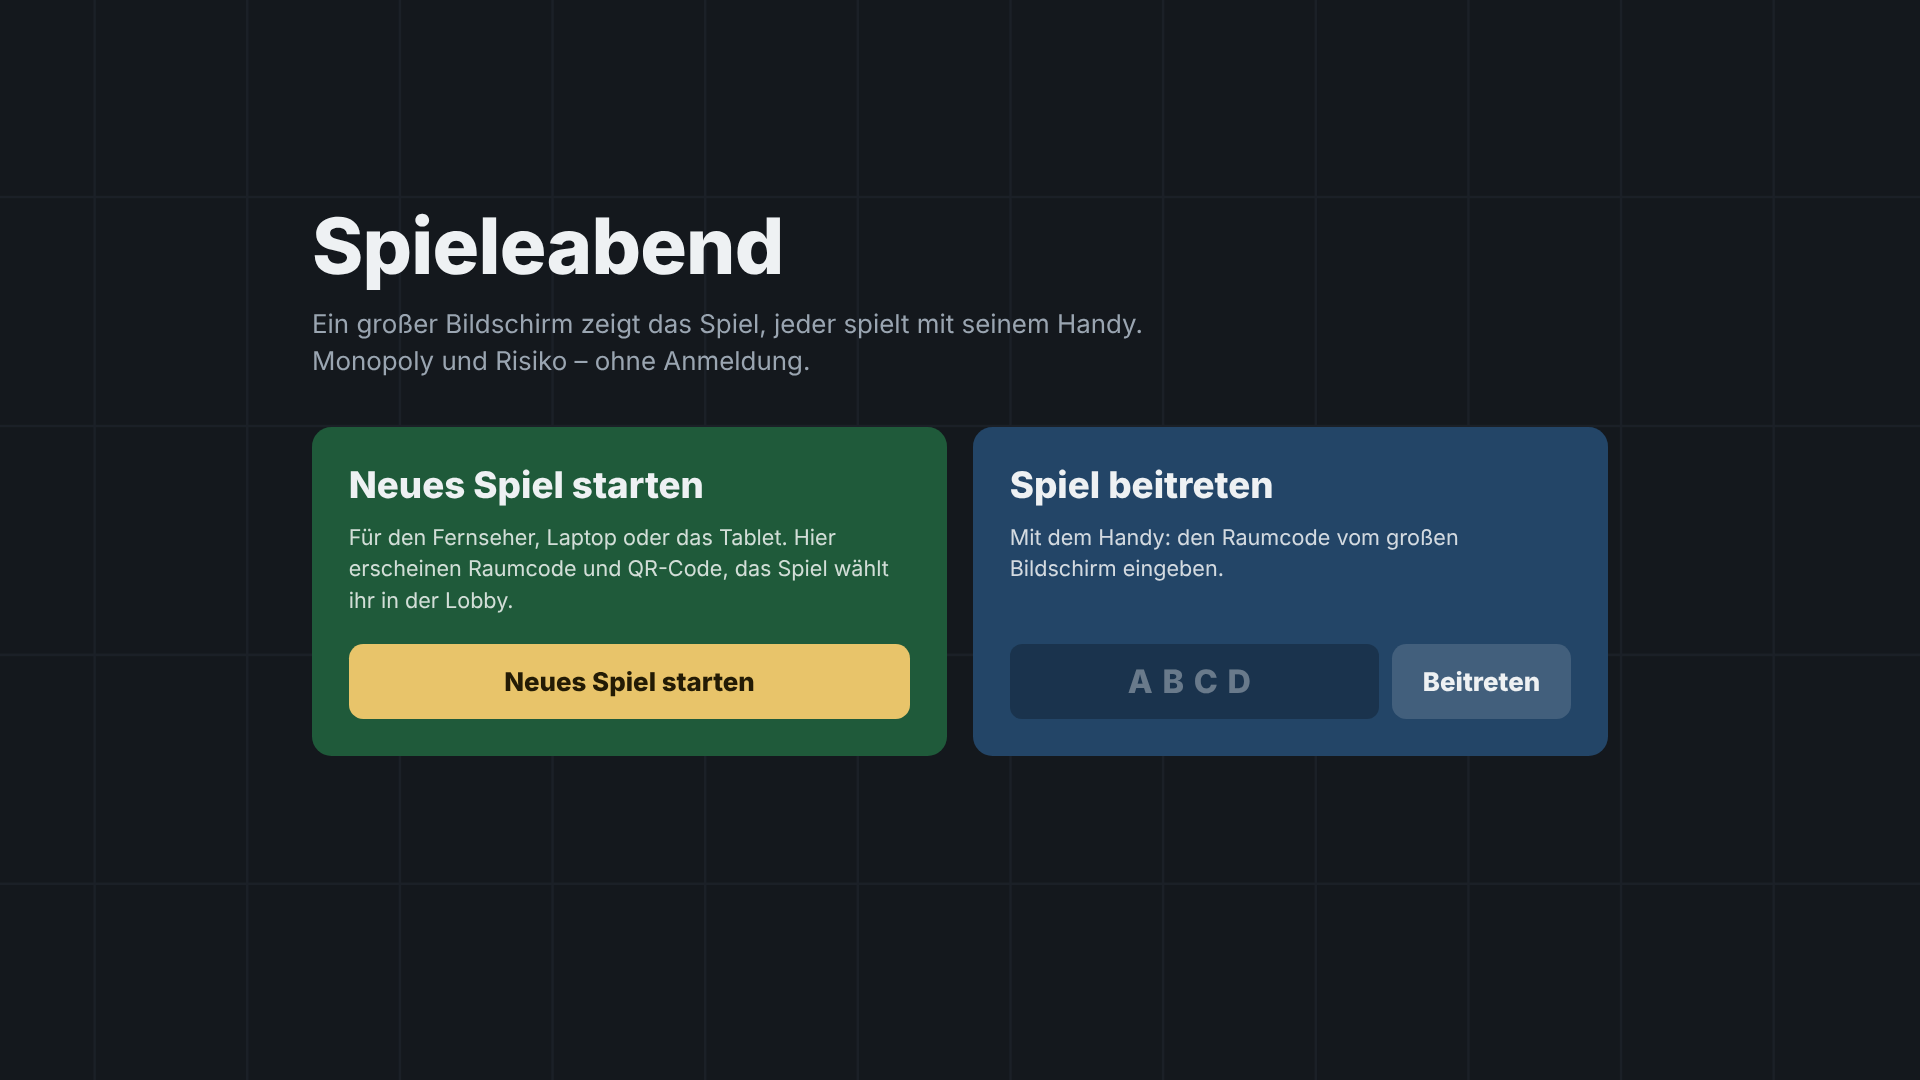
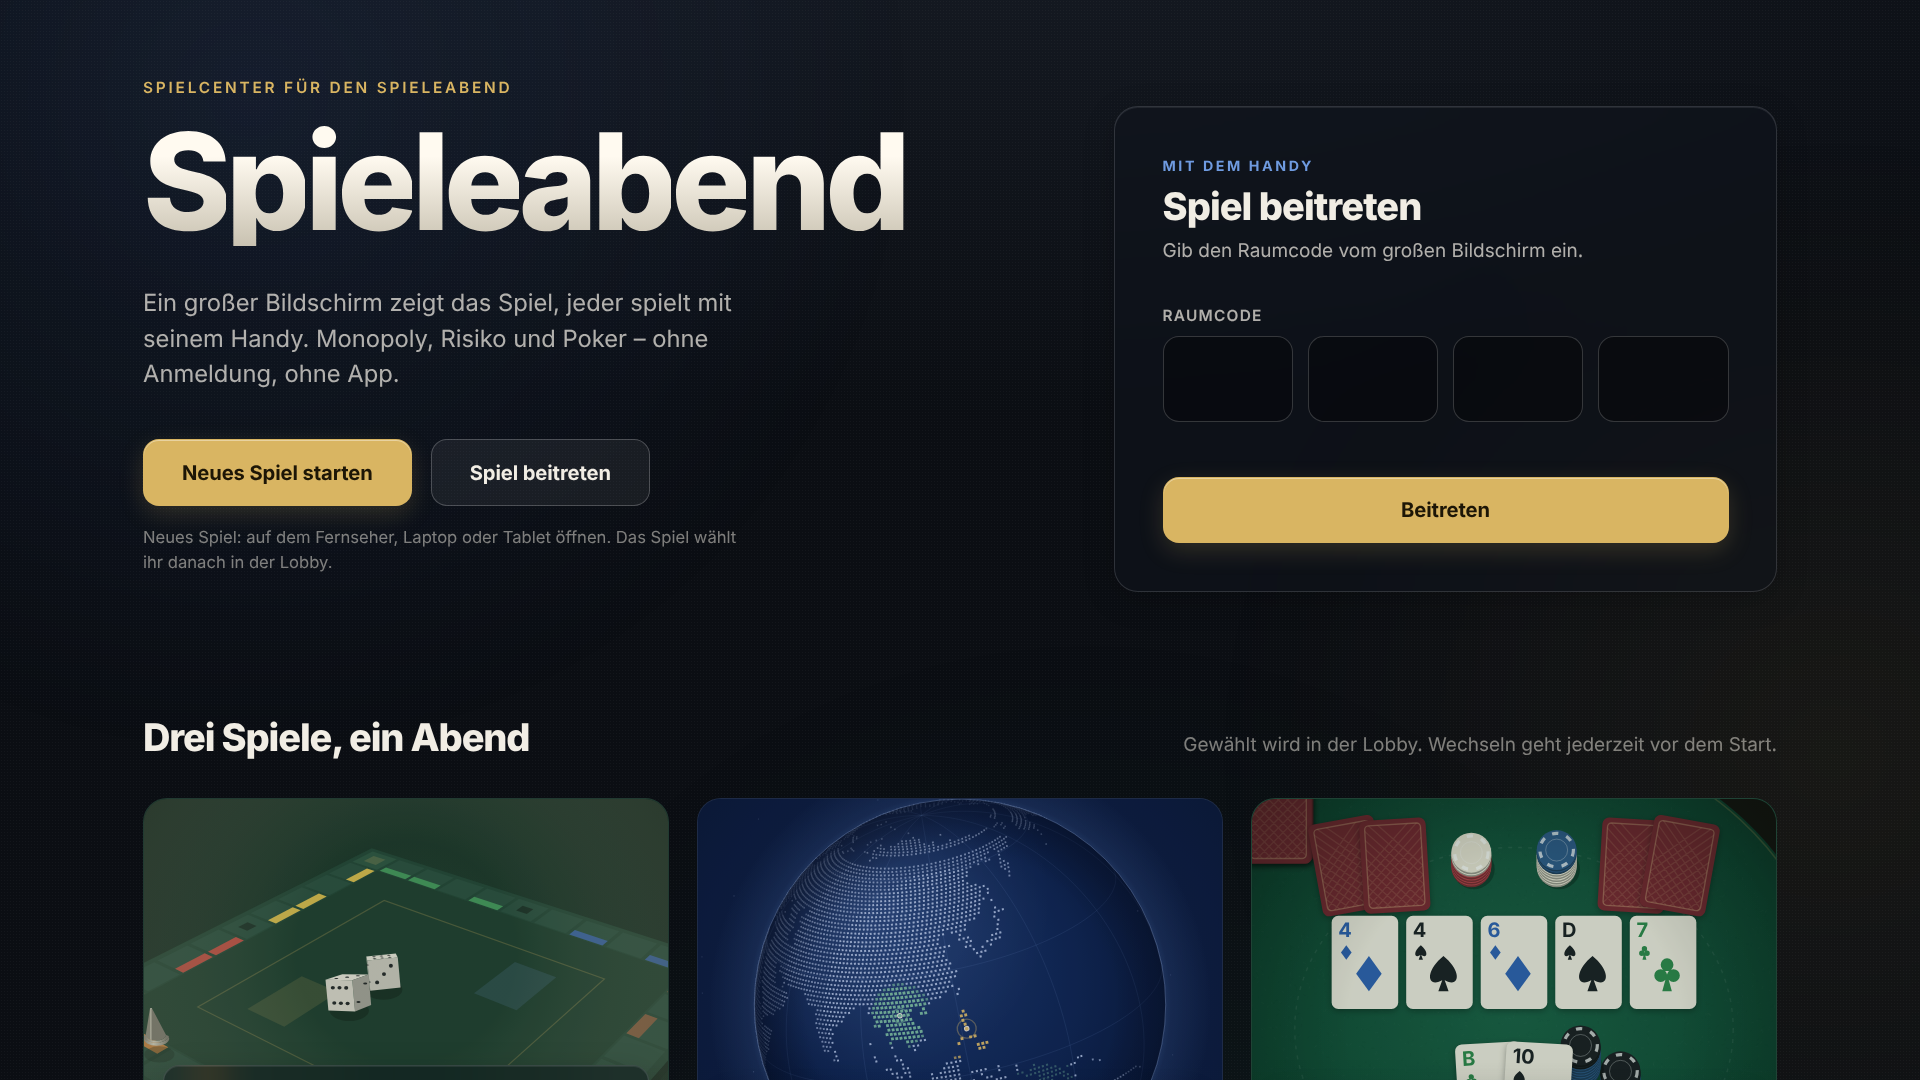
Startseite: Browser-Tests, Bildschirmfotos und Doku
Claude-Session: https://claude.ai/code/session_01TwzLN2jbX8mMbGcqsTMN3N

diff --git a/test/start.e2e.test.js b/test/start.e2e.test.js
@@ -61,3 +61,69 @@ test('Startseite: Raum anlegen, Beitritt per Code, Meldung bei unbekanntem Code'
     await srv.close();
   }
 });
+
+test('Startseite: Raumcode-Felder, Größen, Rückfall ohne Punktdatei', { skip: browserSkip(), timeout: 60000 }, async () => {
+  const srv = await startServer();
+  const browser = await launch();
+  const errors = [];
+  try {
+    const phone = await openPage(browser, `${srv.url}/`, { viewport: { width: 390, height: 844 }, label: 'felder', errors, isMobile: true });
+    // Tippen springt weiter, Kleinbuchstaben werden groß, Ziffern ignoriert
+    await phone.click('#st-code-1');
+    await phone.keyboard.type('a1b');
+    assert.equal(await codeValue(phone), 'AB');
+    assert.equal(await phone.evaluate(() => document.activeElement.id), 'st-code-3');
+    // Rücktaste im leeren Feld springt zurück und löscht dort
+    await phone.keyboard.press('Backspace');
+    assert.equal(await phone.evaluate(() => document.activeElement.id), 'st-code-2');
+    assert.equal(await codeValue(phone), 'A');
+    // Einfügen aus der Zwischenablage verteilt auf alle Felder
+    const paste = (text) => phone.evaluate((t) => {
+      const dt = new DataTransfer(); dt.setData('text', t);
+      document.activeElement.dispatchEvent(new ClipboardEvent('paste', { clipboardData: dt, bubbles: true, cancelable: true }));
+    }, text);
+    await paste(' wx-yz ');
+    assert.equal(await codeValue(phone), 'WXYZ');
+    assert.equal(await phone.evaluate(() => document.activeElement.id), 'st-code-4');
+    await paste('123');
+    assert.match(await phone.textContent('#st-code-msg'), /nur aus Buchstaben/);
+    // Unvollständig: Fehler am Feld
+    await phone.click('#st-code-4');
+    await phone.keyboard.press('Delete');
+    await phone.click('#st-join');
+    assert.match(await phone.textContent('#st-code-msg'), /4 Buchstaben/);
+    assert.equal(await phone.getAttribute('#st-code', 'aria-invalid'), 'true');
+    assert.equal(await phone.evaluate(() => document.activeElement.id), 'st-code-4');
+    assert.equal(await phone.getAttribute('#st-code-1', 'inputmode'), 'text');
+    assert.equal(await phone.getAttribute('#st-code-1', 'autocapitalize'), 'characters');
+
+    // Alle Größen: kein horizontales Scrollen, Szenen gezeichnet, Ziele am Handy groß genug
+    for (const [width, height] of [[390, 844], [1024, 768], [1366, 768], [1920, 1080]]) {
+      const page = await openPage(browser, `${srv.url}/`, { viewport: { width, height }, label: `${width}`, errors, isMobile: width < 500 });
+      await page.waitForFunction(() => document.querySelectorAll('.st-game.st-has-canvas').length === 3);
+      assert.equal(await noHorizontalScroll(page), true, `${width}x${height} ohne horizontales Scrollen`);
+      if (width < 500) {
+        const small = await page.evaluate(() => [...document.querySelectorAll('button, a, input')].filter((e) => { const r = e.getBoundingClientRect(); return r.height < 44 || r.width < 44; }).map((e) => e.id));
+        assert.deepEqual(small, [], 'Zielgröße mindestens 44 px');
+      }
+      await page.context().close();
+    }
+
+    // Punktdatei fehlt, reduzierte Bewegung: Seite lädt ohne Fehler mit Standbildern
+    const ctx = await browser.newContext({ viewport: { width: 1366, height: 768 }, reducedMotion: 'reduce' });
+    const still = await ctx.newPage();
+    const own = [];
+    still.on('pageerror', (err) => own.push(err.message));
+    await still.route('**/globe-points.json', (route) => route.fulfill({ status: 404, body: '' }));
+    await still.goto(`${srv.url}/`);
+    await still.waitForFunction(() => document.querySelectorAll('.st-game.st-has-canvas').length === 2);
+    assert.equal(await still.evaluate(() => window.stHintergrund.running), false, 'keine Bewegung bei reduzierter Bewegung');
+    assert.equal(await still.evaluate(() => document.querySelector('.st-game[data-game="risiko"]').classList.contains('st-has-canvas')), false);
+    assert.deepEqual(own, []);
+    await ctx.close();
+    assert.deepEqual(errors, [], 'keine Konsolenfehler');
+  } finally {
+    await browser.close();
+    await srv.close();
+  }
+});

diff --git a/docs/spielcenter-plan.md b/docs/spielcenter-plan.md
@@ -48,8 +48,13 @@ Ziel: Aus dem Monopoly-Abend wird ein Spielcenter mit mehreren Spielen.
   - Handy: eigene Karten verdeckt, Antippen und Halten zeigt sie, Umschalter „Dauerhaft aufdecken“; Pot, Blinds, Dealer, Einsätze, Betrag zum Mitgehen, Liste aller Spieler. Aktionsleiste mit großen Knöpfen: Fold, Check/Call (mit Betrag), Raise mit Regler (Schritte des Small Blinds) und Eingabe auf den Cent, Schnellwahl Min, ½ Pot, Pot, All-in. Zweites Tippen für All-in und für Fold, wenn Check ginge. Vibration bei eigenem Zug und bei Entscheidungen (abschaltbar, Standard an).
   - Speicherformat: Spieltyp `poker`, Version 1, mit Kartenstapel und Handkarten (nur in der Datenbank, nie im Snapshot); Spielstand und laufende Runde überleben einen Neustart.
   - Bildschirmfotos: `poker-lobby-*`, `poker-tv-preflop-*`, `poker-tv-showdown-*`, `poker-tv-12-spieler-*`, `poker-handy-verdeckt-390x844`, `poker-handy-aufgedeckt-390x844`, `poker-handy-aktionsleiste-390x844` in `docs/screenshots/`.
-- **Startseite** (`/`, `public/start/`): „Neues Spiel starten“ legt über `POST /api/rooms` einen Raum an und öffnet die Host-Lobby; „Spiel beitreten“ prüft den Code (`GET /api/rooms/:code`) und führt zu `/play`. Keine Anmeldung. Dauert eine Anfrage länger als 3 s, erscheint „Der Server startet, das dauert bis zu einer Minute.“
-- **Lobby und Beitritt** (`public/shared/lobby.css`, `lobby.js`): großer Raumcode mit QR-Code und Adresse, Spieler als Karten in ihrer Farbe („4 von 6“), Spielauswahl als drei gleichwertige Karten mit „X bis Y Spieler“, Einstellungen darunter, Start erst mit genug Spielern. Hintergrund bei Risiko die abgedunkelte Weltkarte, bei Monopoly ein flaches Feldraster, bei Poker ein flaches Rautengitter in Tischgrün. Spielfigur wählt man nur bei Monopoly, sonst vergibt der Server die erste freie. Bildschirmfotos: `startseite-*`, `lobby-*`, `handy-beitritt-*` in `docs/screenshots/`.
+- **Startseite** (`/`, `public/start/`, Branch `feature/startseite`): „Neues Spiel starten“ legt über `POST /api/rooms` einen Raum an und öffnet die Host-Lobby; „Spiel beitreten“ prüft den Code (`GET /api/rooms/:code`) und führt zu `/play`. Keine Anmeldung. Dauert eine Anfrage länger als 3 s, erscheint „Der Server startet, das dauert bis zu einer Minute.“
+  - Eigenständig gestaltet (keine Stile aus `public/shared/`): Kopf mit Wortmarke „Spieleabend“ und den zwei Hauptaktionen, daneben „Spiel beitreten“ als Glas-Karte mit Raumcode in vier Feldern (automatisch weiter, Einfügen, Rücktaste springt zurück, Großbuchstaben, Fehler direkt am Feld), darunter drei Spielflächen und „So geht’s“ in drei Schritten. Am Desktop eine Seite mit klaren Abschnitten, die scrollt; Kopf und Spielflächen-Anfang passen in den ersten Bildschirm.
+  - Animierte Hintergründe nur mit Canvas (`public/start/hintergrund.js`): Risiko als drehende Weltkugel aus Landpunkten (orthografisch, Regionen leuchten in Spielerfarben), Monopoly als Spielfeld in Perspektive mit laufenden Marken und rollenden Würfeln, Poker als Tisch von oben mit Karten und Chips. Die Punktdatei `public/start/globe-points.json` erzeugt `npm run build:globe` (`scripts/build-globe.js`) aus Natural Earth; sie ist deterministisch und unter 150 KB.
+  - Nur eine Fläche läuft mit voller Bildrate, die anderen mit halber; unsichtbare und Hintergrund-Tabs ruhen. Bleibt die Bildzeit schlecht, sinken Auflösung und Punktzahl, Glas wird fest, zuletzt Standbilder. `prefers-reduced-motion` zeigt Standbilder; fehlt die Punktdatei, bleibt ein CSS-Standbild.
+  - Bildschirmfotos: `startseite-*` (Start, Eingang, je Spielfläche, Server startet, Fehler; 390×844 und 1920×1080).
+  - **Offen (eigener Auftrag):** Die Weckseite `wake/` ist noch eine Kopie des alten Designs und muss an die neue Startseite angeglichen werden.
+- **Lobby und Beitritt** (`public/shared/lobby.css`, `lobby.js`): großer Raumcode mit QR-Code und Adresse, Spieler als Karten in ihrer Farbe („4 von 6“), Spielauswahl als drei gleichwertige Karten mit „X bis Y Spieler“, Einstellungen darunter, Start erst mit genug Spielern. Hintergrund bei Risiko die abgedunkelte Weltkarte, bei Monopoly ein flaches Feldraster, bei Poker ein flaches Rautengitter in Tischgrün. Spielfigur wählt man nur bei Monopoly, sonst vergibt der Server die erste freie. Bildschirmfotos: `lobby-*`, `handy-beitritt-*` in `docs/screenshots/`.
 - **Räume:**
   - Grenzen gegen Missbrauch: höchstens 20 Räume gleichzeitig, höchstens 5 neue pro Minute und IP. Leere Räume (keine Host-Ansicht, keine Spieler) verschwinden nach 30 Minuten, bei erreichtem Limit schon nach 2 Minuten; laufende Spiele nach 6 h ohne Aktivität. Gelöschte Räume werden auch aus der Datenbank entfernt, beim Start werden höchstens 20 geladen.
   - 4-Buchstaben-Code mit QR-Beitritt
@@ -61,7 +66,7 @@ Ziel: Aus dem Monopoly-Abend wird ein Spielcenter mit mehreren Spielen.
   - Vanilla-JS-Clients ohne Build-Schritt
   - Zustand im Arbeitsspeicher; mit `DATABASE_URL` zusätzlich in Postgres (Neon), siehe Betrieb
 - **Deployment:** `render.yaml` als Web Service im Free-Plan; Build mit `npm install --omit=dev`, Start mit `npm start`, Healthcheck `/healthz`.
-- **Tests:** `npm test` führt nur die Unit-Tests aus (162: Regeln von Monopoly, Risiko, Poker und Minispielen, Spiel-Schnittstelle, Spielauswahl, Neustart-Tests mit gespeicherten Räumen in Version 1 und 2, Prüfung der erzeugten Weltkarte, Animations-Ereignisse, Risiko-Anzeigedaten wie Vorauswahl, Phasentexte und Statistik samt altem Spielstand ohne Statistik, Animationsdauern, Raumlimit, Rate-Limit und Aufräumen leerer Räume, Startseite per HTTP, CORS-Freigabe von `/healthz` für die Weckseite, Wächter für die Testskripte). Poker hat 31 eigene Tests (`test/poker.test.js`, `test/poker-modul.test.js`): Handbewertung aller Kategorien mit Kickern und Gleichständen, Side-Pots mit drei und mehr Spielern und mehreren All-ins, Split mit ungeradem Cent, Mindest-Raise und zu kleines All-in, Heads-up, Blinds-Rotation, Aktionen außerhalb des Zuges, Einstellungen, Ablehnung des 13. Spielers, Austeilen mit 12 Spielern, versteckte Karten für jede Rolle auch nach Neustart aus dem Speicher, Zugzeit, Nachkaufen, Spielende und eine Zufallspartie mit festem Seed (über 100 Runden je mit 3, 6 und 12 Spielern), in der Guthaben plus Pot bis auf Nachkäufe konstant bleibt. Lokal kommen dazu `npm run test:browser` (Playwright-Durchläufe: Monopoly mit 1 Host-Ansicht und 3 Handys, Lobby, alte Einzelversion, Risiko mit 2 Handys inkl. Vorauswahl auf dem Fernseher, Poker mit 3 Handys (eine Runde, Karten nur am eigenen Handy, Gemeinschaftskarten auf dem Fernseher), Startseite mit Raum anlegen und Beitritt per Code, Weckseite; braucht `CHROMIUM_PATH`; zuletzt 9 von 9 grün mit `/opt/pw-browsers/chromium`) und `npm run test:db` (2 Datenbank-Tests, braucht `DATABASE_URL`). Fehlt die Umgebung, werden diese Tests mit Grund übersprungen. Zeitlimit 60 s pro Testdatei.
+- **Tests:** `npm test` führt nur die Unit-Tests aus (164: Regeln von Monopoly, Risiko, Poker und Minispielen, Spiel-Schnittstelle, Spielauswahl, Neustart-Tests mit gespeicherten Räumen in Version 1 und 2, Prüfung der erzeugten Weltkarte, Animations-Ereignisse, Risiko-Anzeigedaten wie Vorauswahl, Phasentexte und Statistik samt altem Spielstand ohne Statistik, Animationsdauern, Raumlimit, Rate-Limit und Aufräumen leerer Räume, Startseite per HTTP, CORS-Freigabe von `/healthz` für die Weckseite, Wächter für die Testskripte, Punktdatei der Weltkugel). Poker hat 31 eigene Tests (`test/poker.test.js`, `test/poker-modul.test.js`): Handbewertung aller Kategorien mit Kickern und Gleichständen, Side-Pots mit drei und mehr Spielern und mehreren All-ins, Split mit ungeradem Cent, Mindest-Raise und zu kleines All-in, Heads-up, Blinds-Rotation, Aktionen außerhalb des Zuges, Einstellungen, Ablehnung des 13. Spielers, Austeilen mit 12 Spielern, versteckte Karten für jede Rolle auch nach Neustart aus dem Speicher, Zugzeit, Nachkaufen, Spielende und eine Zufallspartie mit festem Seed (über 100 Runden je mit 3, 6 und 12 Spielern), in der Guthaben plus Pot bis auf Nachkäufe konstant bleibt. Lokal kommen dazu `npm run test:browser` (Playwright-Durchläufe: Monopoly mit 1 Host-Ansicht und 3 Handys, Lobby, alte Einzelversion, Risiko mit 2 Handys inkl. Vorauswahl auf dem Fernseher, Poker mit 3 Handys (eine Runde, Karten nur am eigenen Handy, Gemeinschaftskarten auf dem Fernseher), Startseite mit Raum anlegen und Beitritt per Code, Weckseite; braucht `CHROMIUM_PATH`; zuletzt 9 von 9 grün mit `/opt/pw-browsers/chromium`) und `npm run test:db` (2 Datenbank-Tests, braucht `DATABASE_URL`). Fehlt die Umgebung, werden diese Tests mit Grund übersprungen. Zeitlimit 60 s pro Testdatei.
 - **Aufräumarbeiten:** `package-lock.json` liegt im Repo. Die alte Pferderennen-Einzelversion liegt in `legacy/`.
 
 ## Entscheidungen
